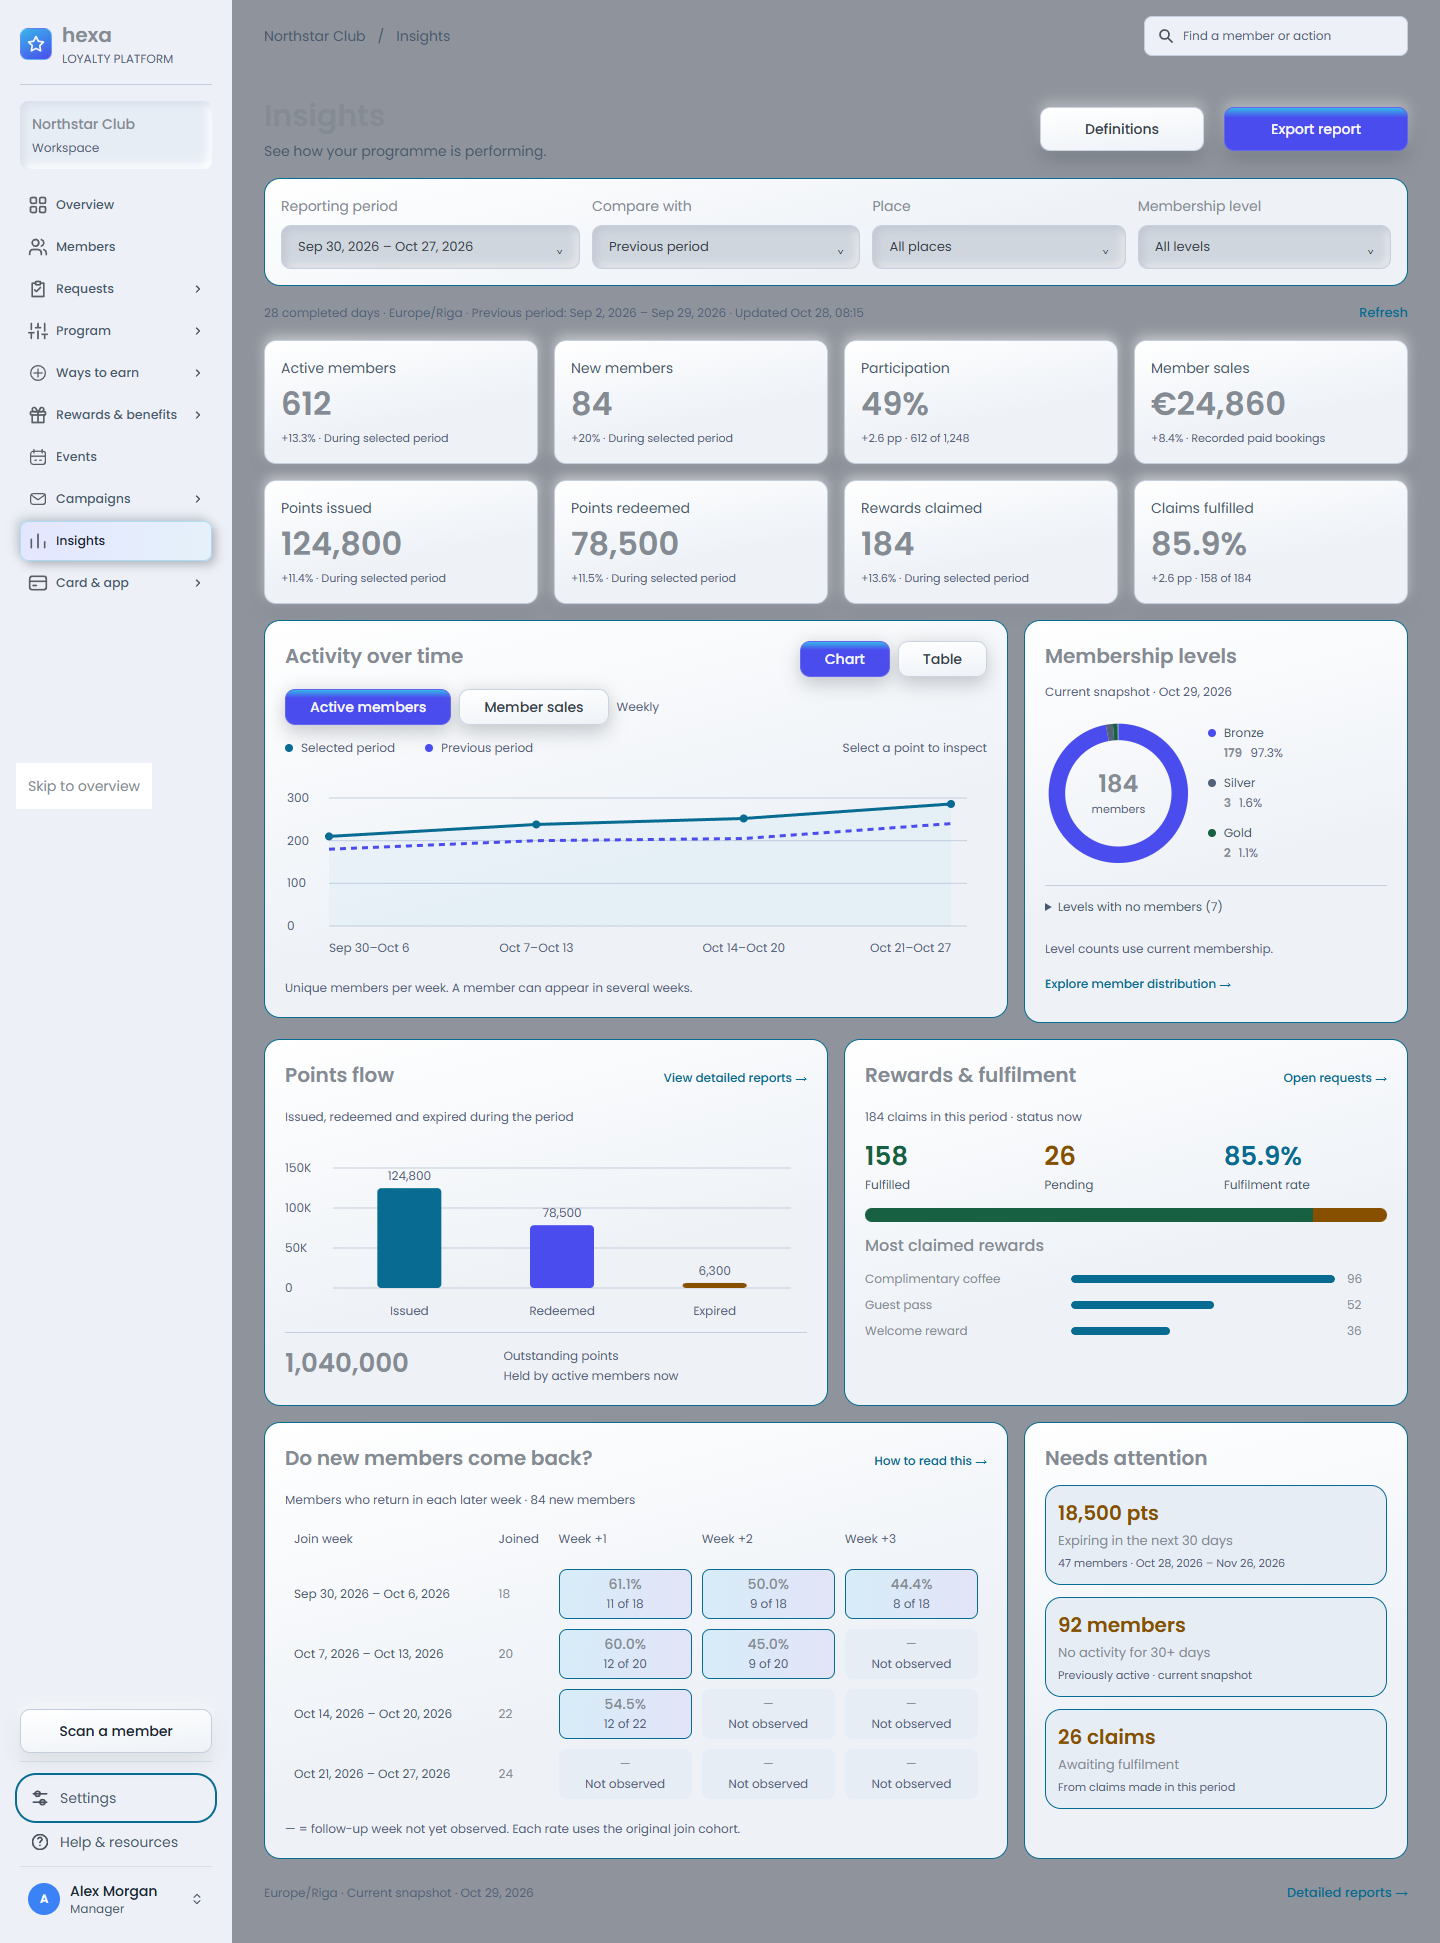
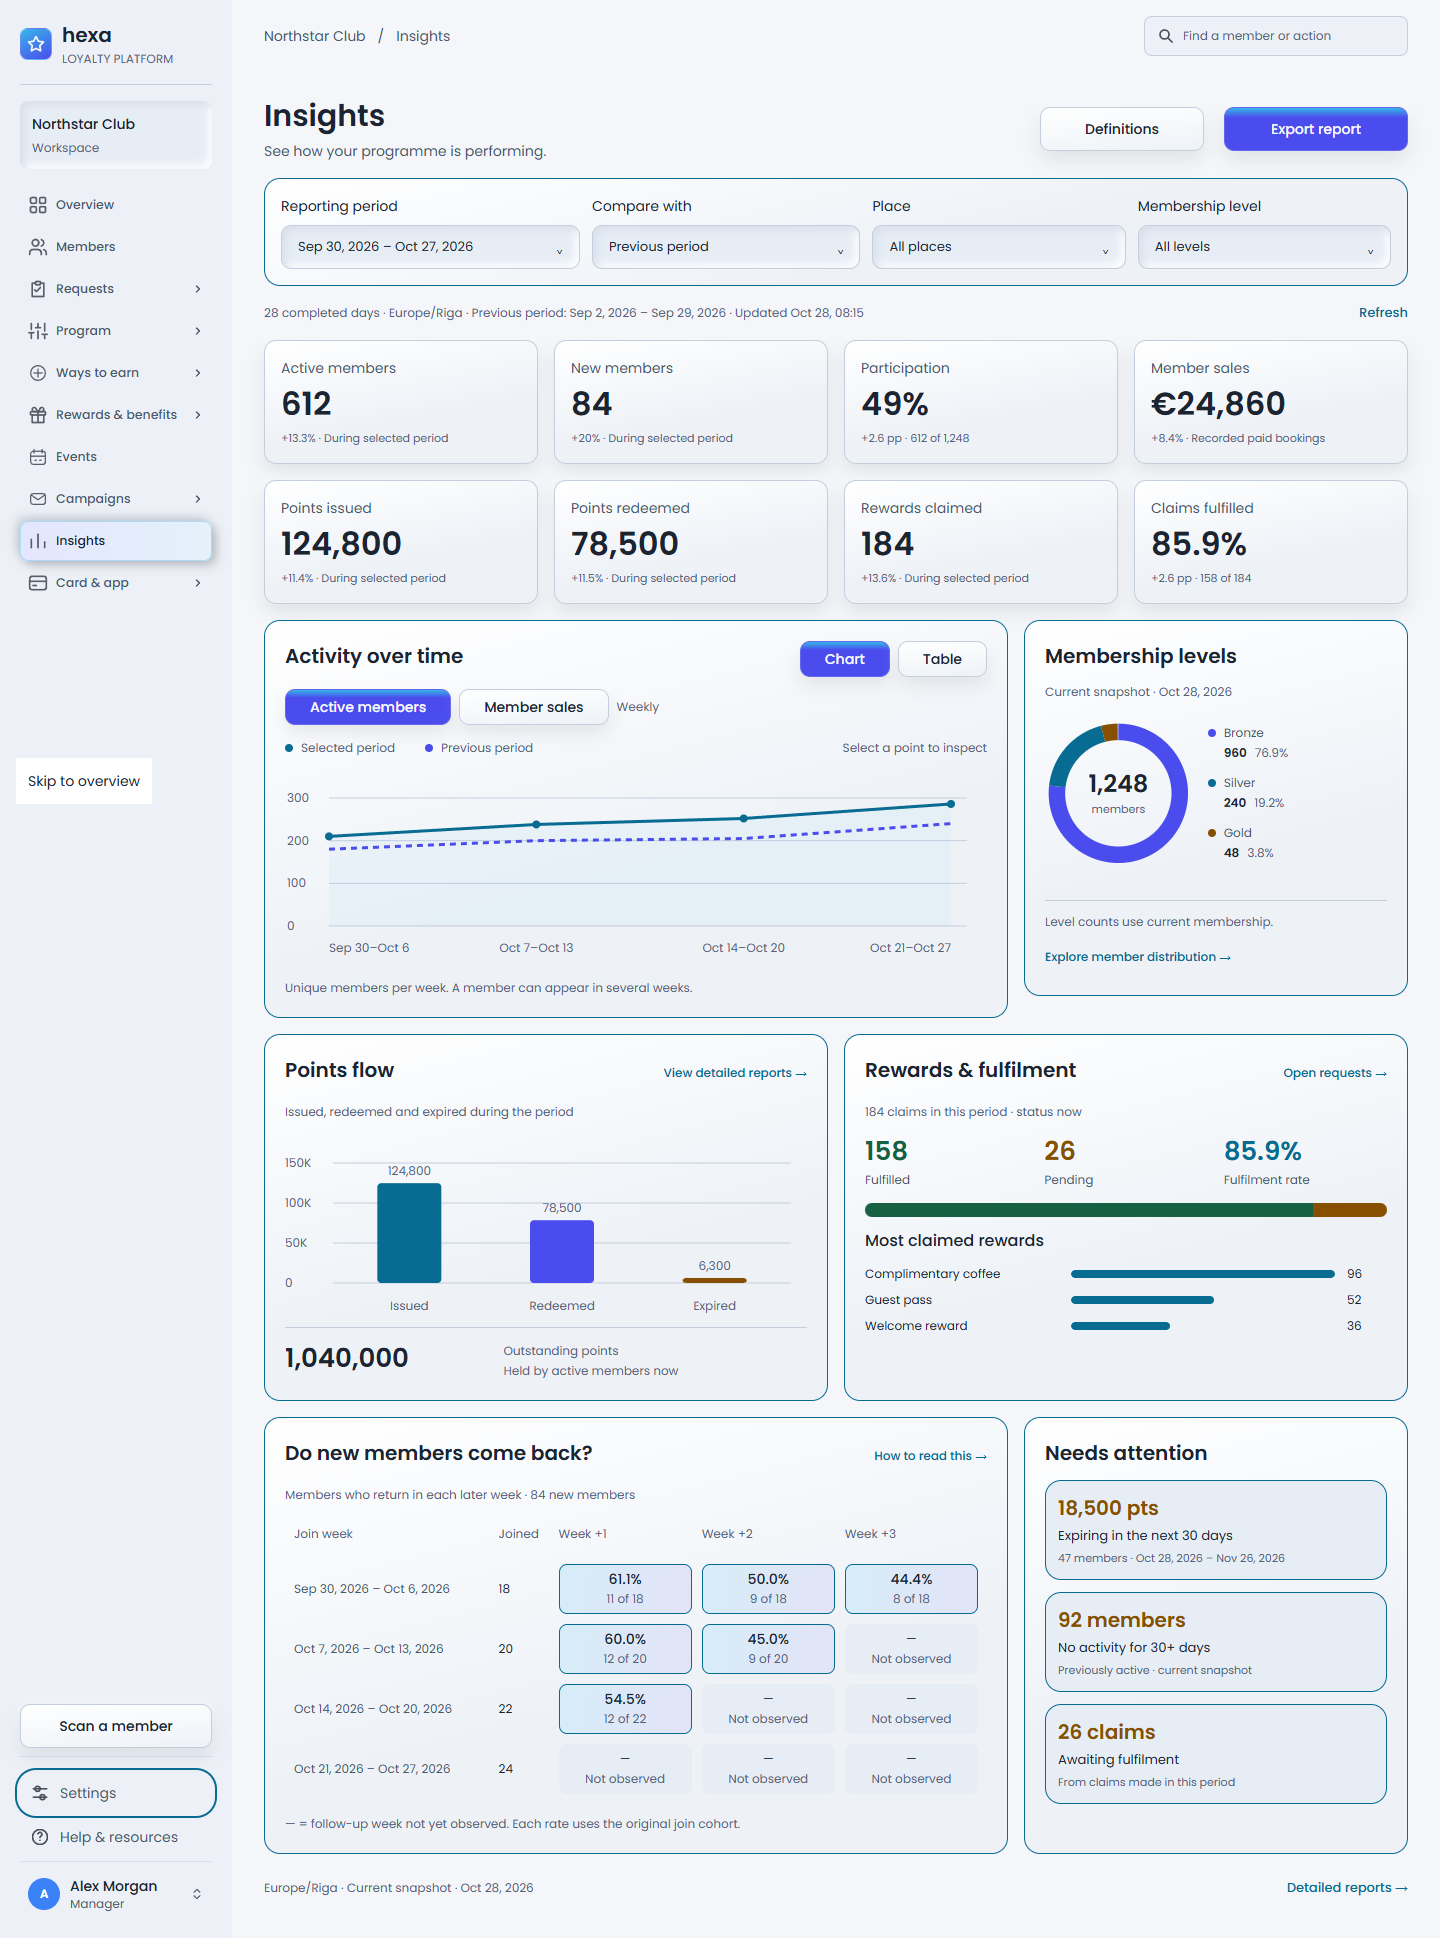
Record Insights layout verification and live deployment

diff --git a/docs/handoff/2026-10-29-hexatech-handoff.md b/docs/handoff/2026-10-29-hexatech-handoff.md
@@ -1,0 +1,38 @@
+# HexaTech handoff — 29 October 2026
+
+Read this first, then `2026-10-28-hexatech-handoff.md` for previous milestones and
+`2026-10-27-hexatech-handoff.md` for the full environment and history. Root AGENTS.md and CLAUDE.md still apply.
+
+## Current production release: compact Insights membership layout
+
+Production **8f7c18159e6ae6d082c7f0db7706592cbdb1fbbb**, live content verified **29 October, 09:55 Europe/Riga**.
+Feature `feature/insights-layout-20261029`; deployed source and **next source-patch baseline**:
+**de39dc9a9e5c26898a13821dd68554f113c0cb7d**. Do not use the later documentation/evidence commit.
+Isolated artifact parent **59a6bda89**, source patch **b314325b8**, 34 explicitly allowed paths; whole-source parity passed.
+Read `docs/loyalty-redesign/20-INSIGHTS-LAYOUT-REPORT.md` for the precise scope and evidence.
+
+The owner supplied a screenshot of an excessively tall Membership levels card. Re-inspected exact Figma IN-01
+`136:6541`. The card now displays populated levels compactly beside its donut, puts empty levels in a native
+keyboard-operable disclosure, caps long lists with keyboard scrolling and stacks cleanly on narrow screens.
+The adjacent activity chart no longer stretches with the tier list. Counts, percentages, server order/color
+association and unassigned members are retained. Two new strings are translated into all five languages.
+No backend, API, migration, dependency or data-definition changes. Filters, CSV, charts and detailed reports remain.
+
+Final artifact: **5,704 frontend tests in 394 files**, **33 PHP tests / 276 assertions** (scoped Insights filter),
+TypeScript, full Loyalty ESLint and fresh Vite/postbuild passed. Compiled Chrome: **48 layout + 59 existing
+interaction/state checks**, no runtime errors. Seven widths, five languages, both themes, the screenshot's
+179/3/2 out of 184 distribution, 30 populated tiers, long names, empty and unassigned membership were exercised.
+Final compiled desktop and mobile renders were visually compared to Figma. Browser APIs are intercepted local
+fixtures; live verification is read-only content and authentication checks, not authenticated production data.
+
+Live entry `index-hJ5Z0xdJ.js`, Loyalty `LoyaltyApp-CKwz0Hzw.js` / `LoyaltyApp-B7Gq2D31.css`.
+New and existing feature markers, responsive styles, three local font payloads, three API authentication checks,
+public landing kit and retired CSS 404 passed. Evidence: `docs/loyalty-redesign/evidence/insights-layout/`.
+
+Private helpers/logs: `E:/Hexa-Tech-release/insights-layout-*` and `logs/insights-layout-*`.
+The temporary release worktree and its own preview server are removed after verification; the original Vite
+PID 1992 and user untracked files are preserved. No feature-branch build outputs are committed.
+
+Deployment still follows the source-patch recipe from `docs/landing-page-builder.md` §6. Use PHP 8.4.20,
+`XDEBUG_MODE=off`, `-d max_execution_time=0`; never junction vendor. Foreground scoped PHP runs only.
+The owner's standing instruction to deploy completed verified work without asking remains in CLAUDE.md.

diff --git a/docs/loyalty-redesign/20-INSIGHTS-LAYOUT-REPORT.md b/docs/loyalty-redesign/20-INSIGHTS-LAYOUT-REPORT.md
@@ -18,4 +18,10 @@ Development: TypeScript and Insights ESLint passed; report math/locale suite pas
 
 Observed card heights: 403px on desktop/tablet, 395px at 390px, 457px at 320px. Desktop and mobile renders were visually inspected against Figma and the supplied screenshot. Evidence and runnable checks: `evidence/insights-layout/`, `frontend/e2e/insights.layout.js` (run after `insights.browser.js`). Browser data is explicitly intercepted local fixtures, not a claim of authenticated production-data testing.
 
-Release artifact verification and live deployment record will be added after completion. Source-patch baseline is `1b800e9bb2d4956120092a9f29c37d6a85d506dc`; production parent is `59a6bda89ca5e47183135489550325c029f6c1b9`.
+Release artifact: **5,704 frontend tests in 394 files**, **33 scoped PHP tests with 276 assertions**, TypeScript, full Loyalty ESLint and fresh Vite/postbuild all passed. The PHP Insights filter includes report, money, cohorts, at-risk, legacy reports and the relevant bootstrap capability check. Compiled Chrome passed **48 layout + 59 existing interaction/state checks**, with no runtime errors. Filters, chart/table switching, keyboard inspection, cohort details, real CSV download, authorization loss, recovery, detailed reports, five languages and both themes remain verified. Final compiled desktop/mobile cards were visually inspected again.
+
+The isolated release began at `59a6bda89ca5e47183135489550325c029f6c1b9`; its explicit 34-path source patch includes the previous Campaigns post-deployment evidence. Whole-source parity passed, excluding only generated SPA paths. Source commit: `b314325b8`. Production build commit: `8f7c18159e6ae6d082c7f0db7706592cbdb1fbbb`.
+
+Deployed feature source / **next source-patch baseline**: `de39dc9a9e5c26898a13821dd68554f113c0cb7d`. Do not use the subsequent documentation/evidence commit as the baseline. Feature branch: `feature/insights-layout-20261029`.
+
+Live content verified **29 October 2026, 09:55 Europe/Riga**: entry `index-hJ5Z0xdJ.js`, Loyalty `LoyaltyApp-CKwz0Hzw.js` / `LoyaltyApp-B7Gq2D31.css`. New layout/translation markers, responsive styles, existing page markers and all three Poppins payloads passed. Report and legacy Insights/money endpoints returned the expected unauthenticated 401 JSON. Public landing kit content and retired stylesheet 404 passed. See `evidence/insights-layout/live-verification.json`.

diff --git a/docs/loyalty-workspace.md b/docs/loyalty-workspace.md
@@ -10,6 +10,11 @@ campaigns, card and app, pictures, currency).
 
 Campaigns Figma redesign (28 October 2026): see `loyalty-redesign/19-CAMPAIGNS-REPORT.md` for CM-01–04, the two-step email editor, server list filters, saved audience copies, Push/SMS/Segments layouts and verification. Existing route names and delivery writers are unchanged.
 
+Insights layout refinement (29 October 2026, live verified): populated membership levels stay beside the donut;
+empty levels remain in an expandable list. Long lists are bounded and keyboard-scrollable, and the activity chart
+no longer stretches with them. All report data, routes and interactions are retained. See
+`loyalty-redesign/20-INSIGHTS-LAYOUT-REPORT.md` for Figma comparison, responsive checks and release evidence.
+
 ## Who has it, and the ways in and back
 
 Scan redesign (28 October, deployed and live verified): `/loyalty/scan` now follows the exact desktop/mobile

diff --git a/CLAUDE.md b/CLAUDE.md
@@ -6,7 +6,7 @@ Multi-tenant Laravel 13 + React (Vite, TypeScript) SaaS with four sub-brands. Pr
 `frontend/src/pages/landing`).
 
 Starting a new session, or on another device or agent: the current state, set-up, test baselines, deploy steps and
-open items are in the newest file of `docs/handoff/` (now `docs/handoff/2026-10-28-hexatech-handoff.md`). Update it,
+open items are in the newest file of `docs/handoff/` (now `docs/handoff/2026-10-29-hexatech-handoff.md`). Update it,
 or add the next dated one, at the end of a session.
 
 ## Environment (hard rules, each one has bitten before)
